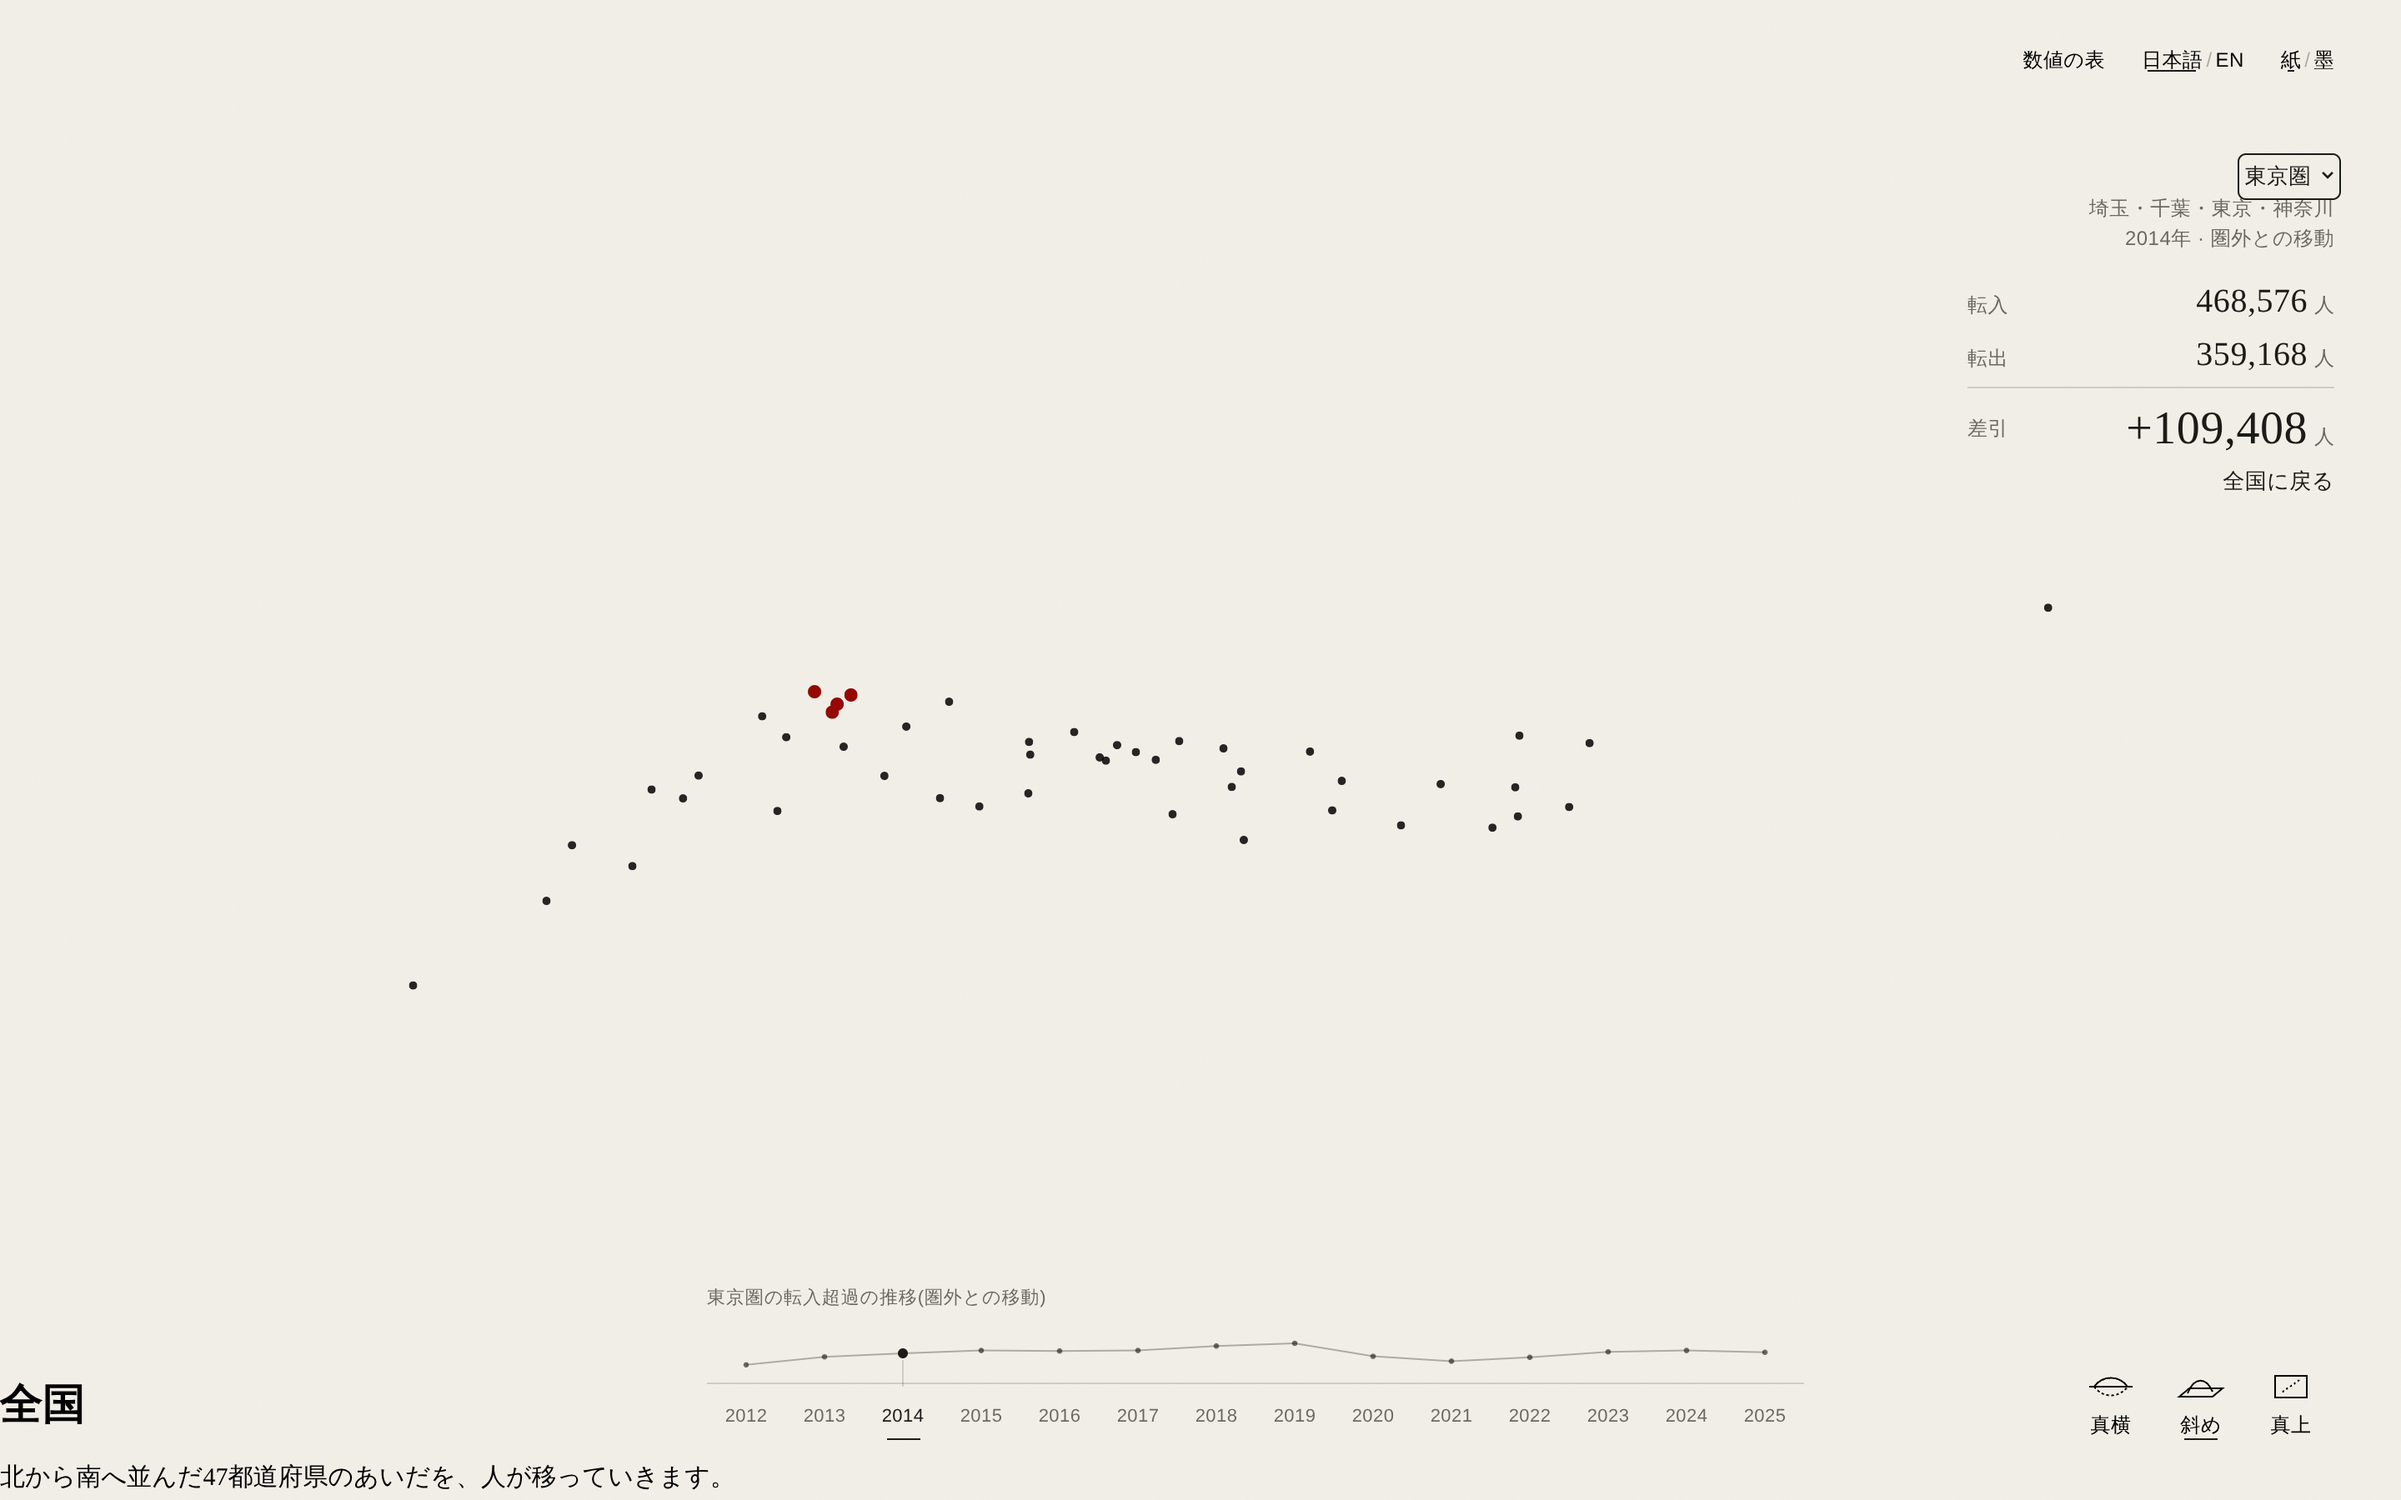
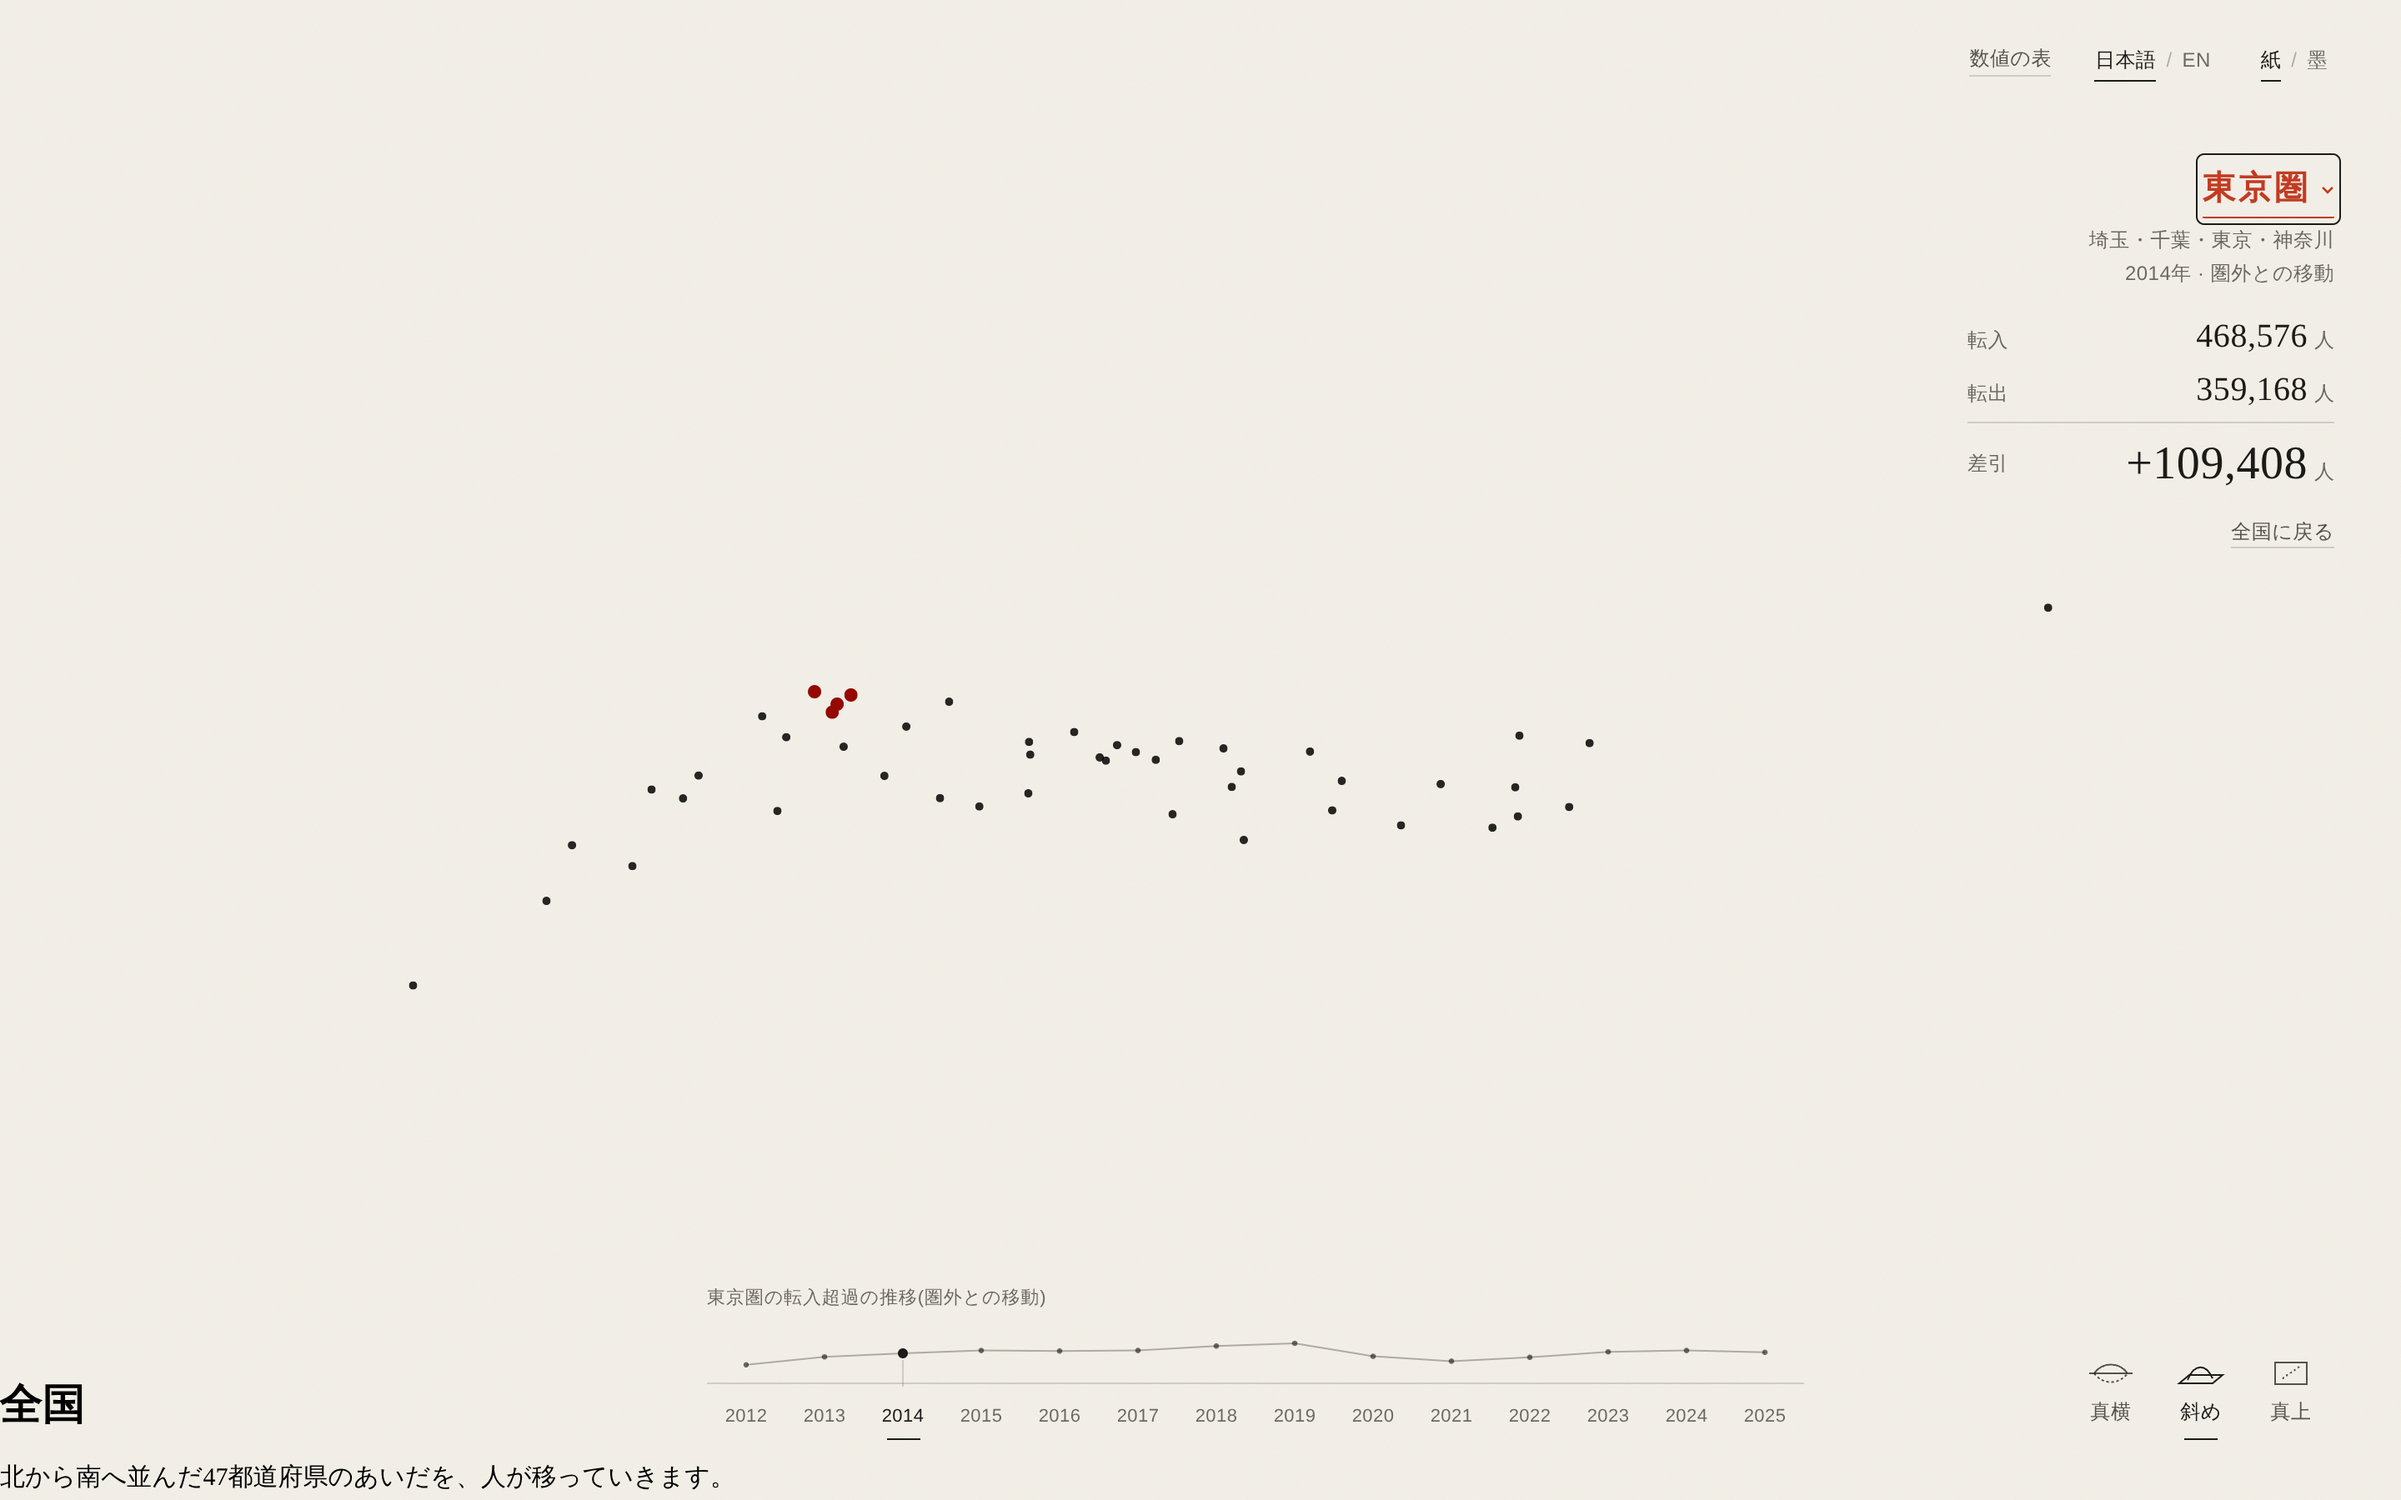
ボタンのリセットが部品の見た目を上書きしないようにし、撮影画像を撮り直す
#selector と #controls の button のリセットが ID セレクタで、朱の見出しやカメラの余白を打ち消していた。:where() で詳細度を 0 にする。

Claude-Session: https://claude.ai/code/session_01PEzRMoi9micMgSJxubQkUi

diff --git a/src/styles/ui-selector.css b/src/styles/ui-selector.css
@@ -14,7 +14,7 @@
   color: var(--fg-1);
 }
 #selector [hidden] { display: none !important; }
-#selector button {
+:where(#selector) button {
   font: inherit;
   letter-spacing: inherit;
   color: inherit;
@@ -27,7 +27,7 @@
 }
 #selector button:focus { outline: none; }
 #selector button:focus-visible { outline: 1.5px solid var(--focus); outline-offset: 3px; border-radius: 1px; }
-#selector p { margin: 0; }
+:where(#selector) p { margin: 0; }
 
 /* ---- 読み出しの見出し(選択のボタン) ---- */
 .sel-head { position: relative; display: inline-block; }

diff --git a/src/styles/ui-controls.css b/src/styles/ui-controls.css
@@ -12,7 +12,7 @@
   line-height: var(--lh-ui);
   letter-spacing: var(--ls-ui);
 }
-#controls button {
+:where(#controls) button {
   font: inherit;
   letter-spacing: inherit;
   color: inherit;
